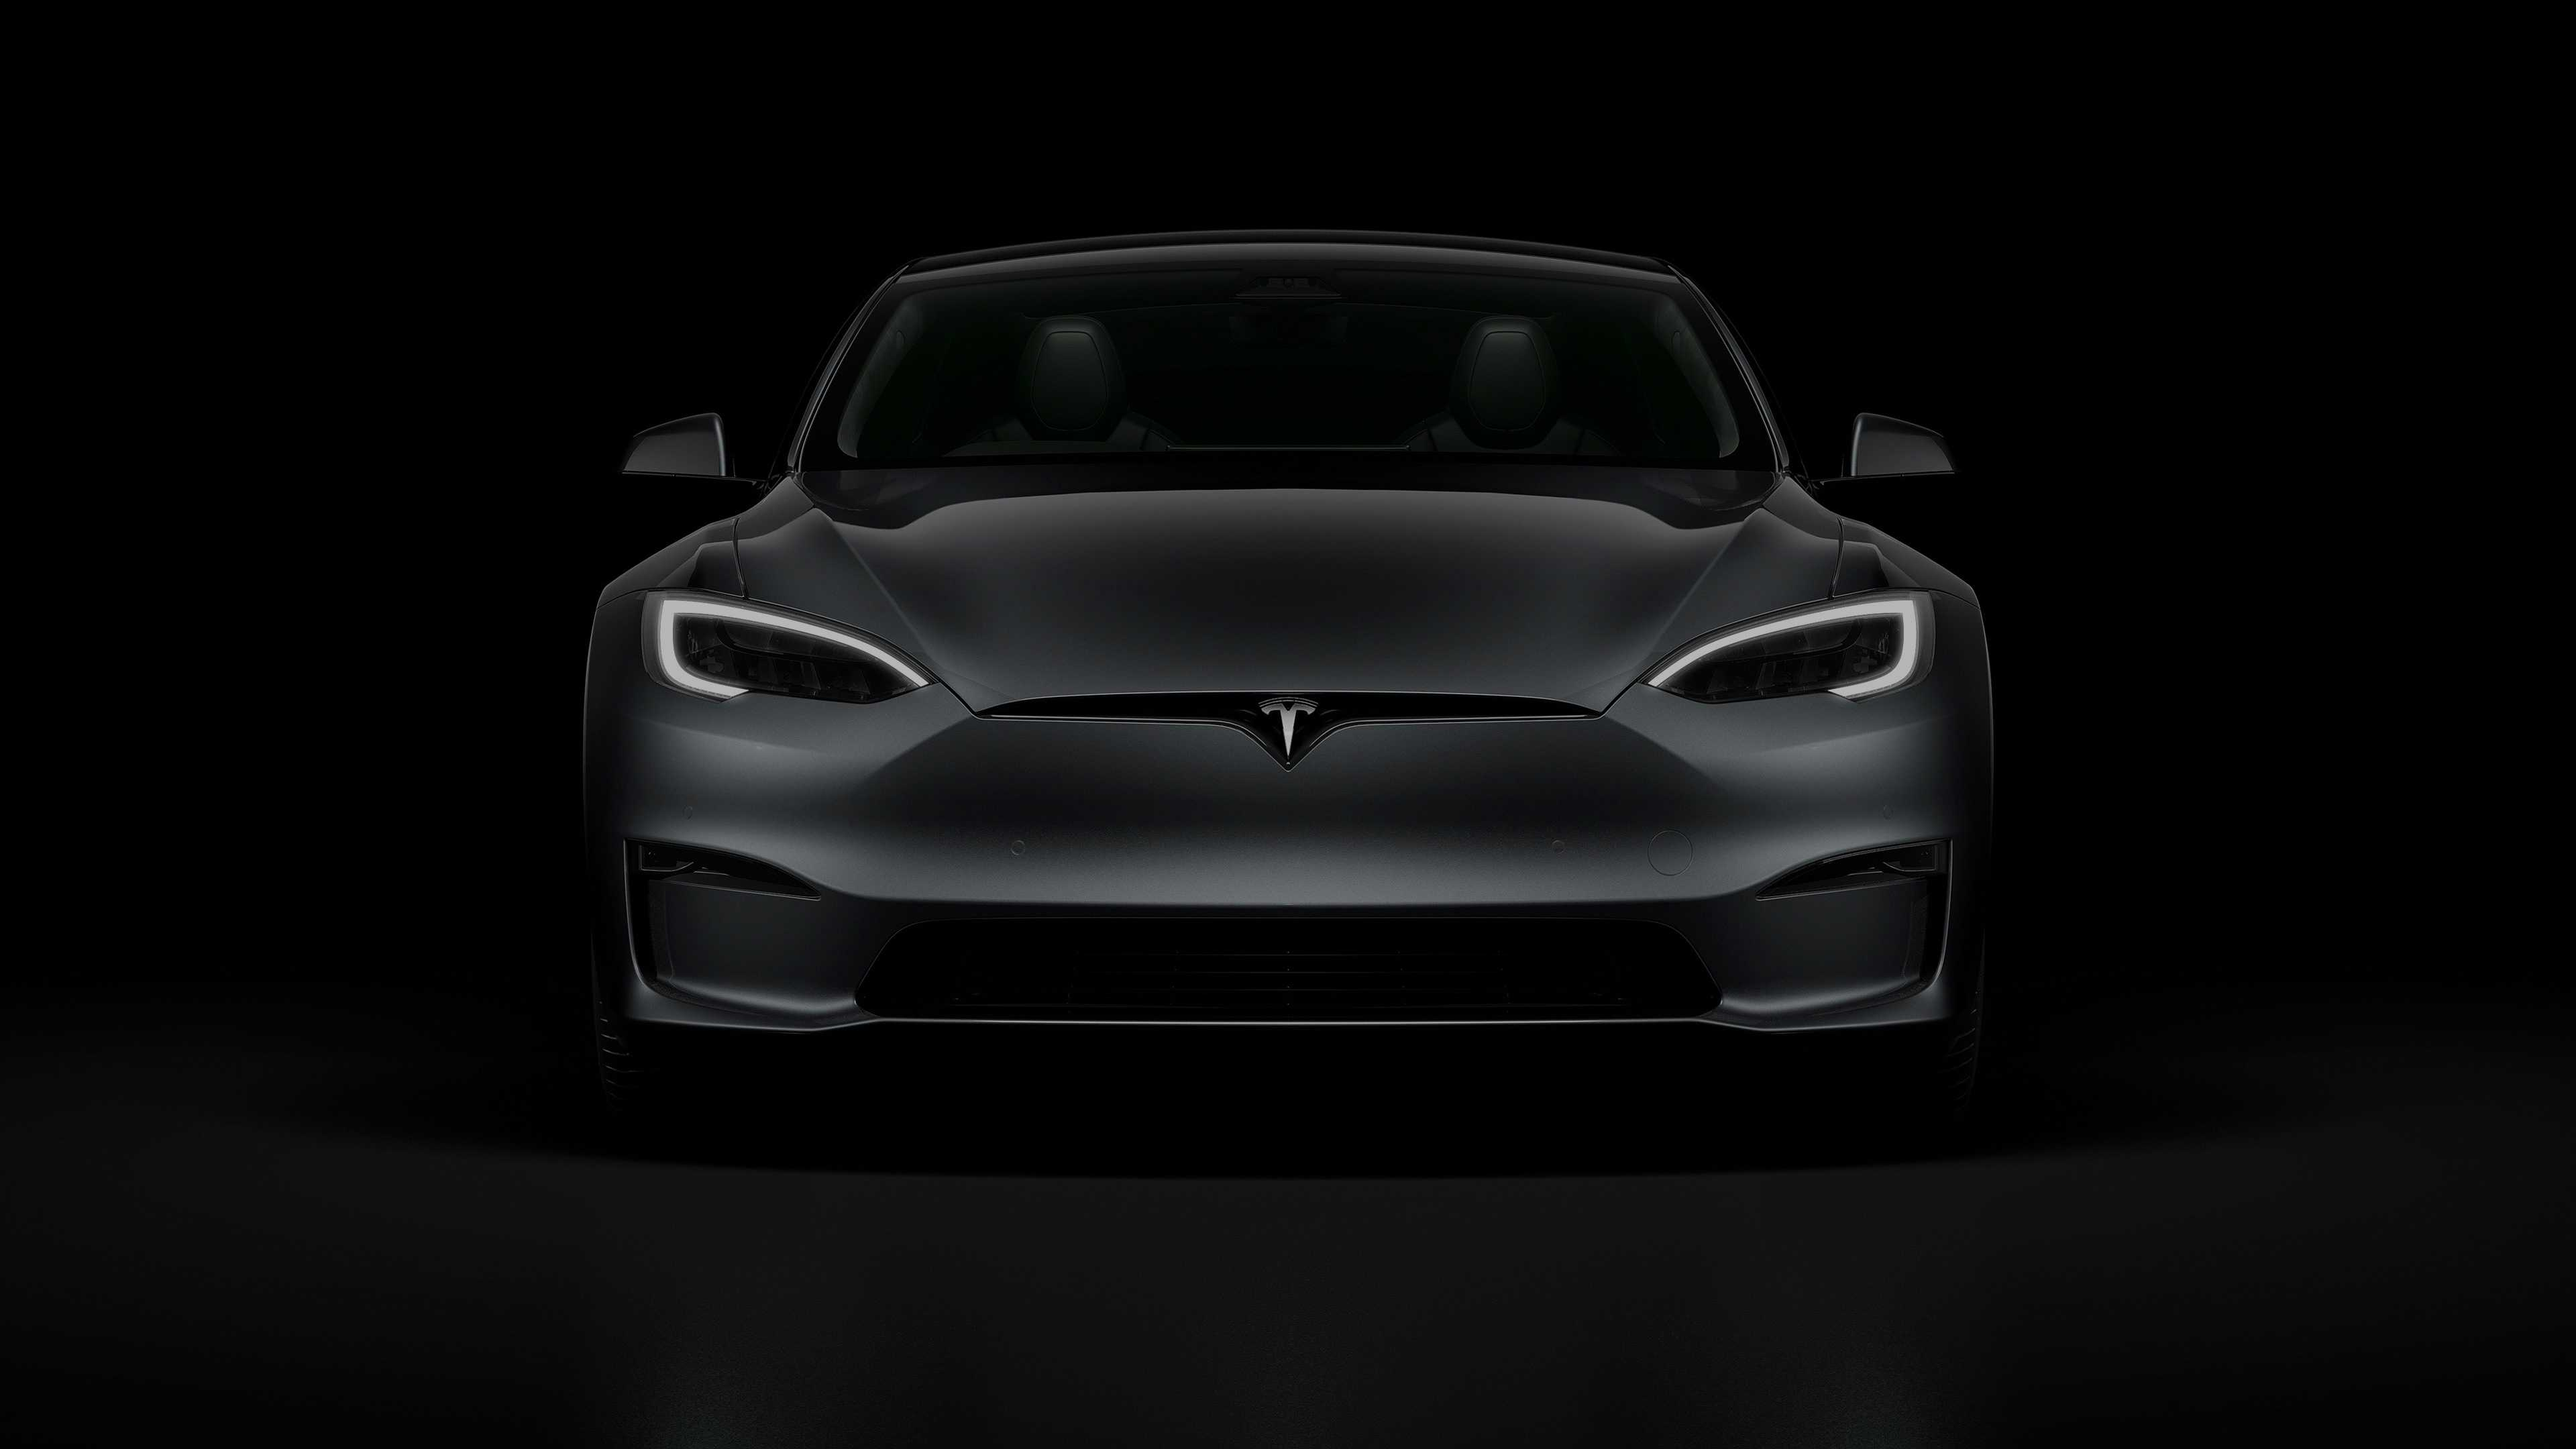
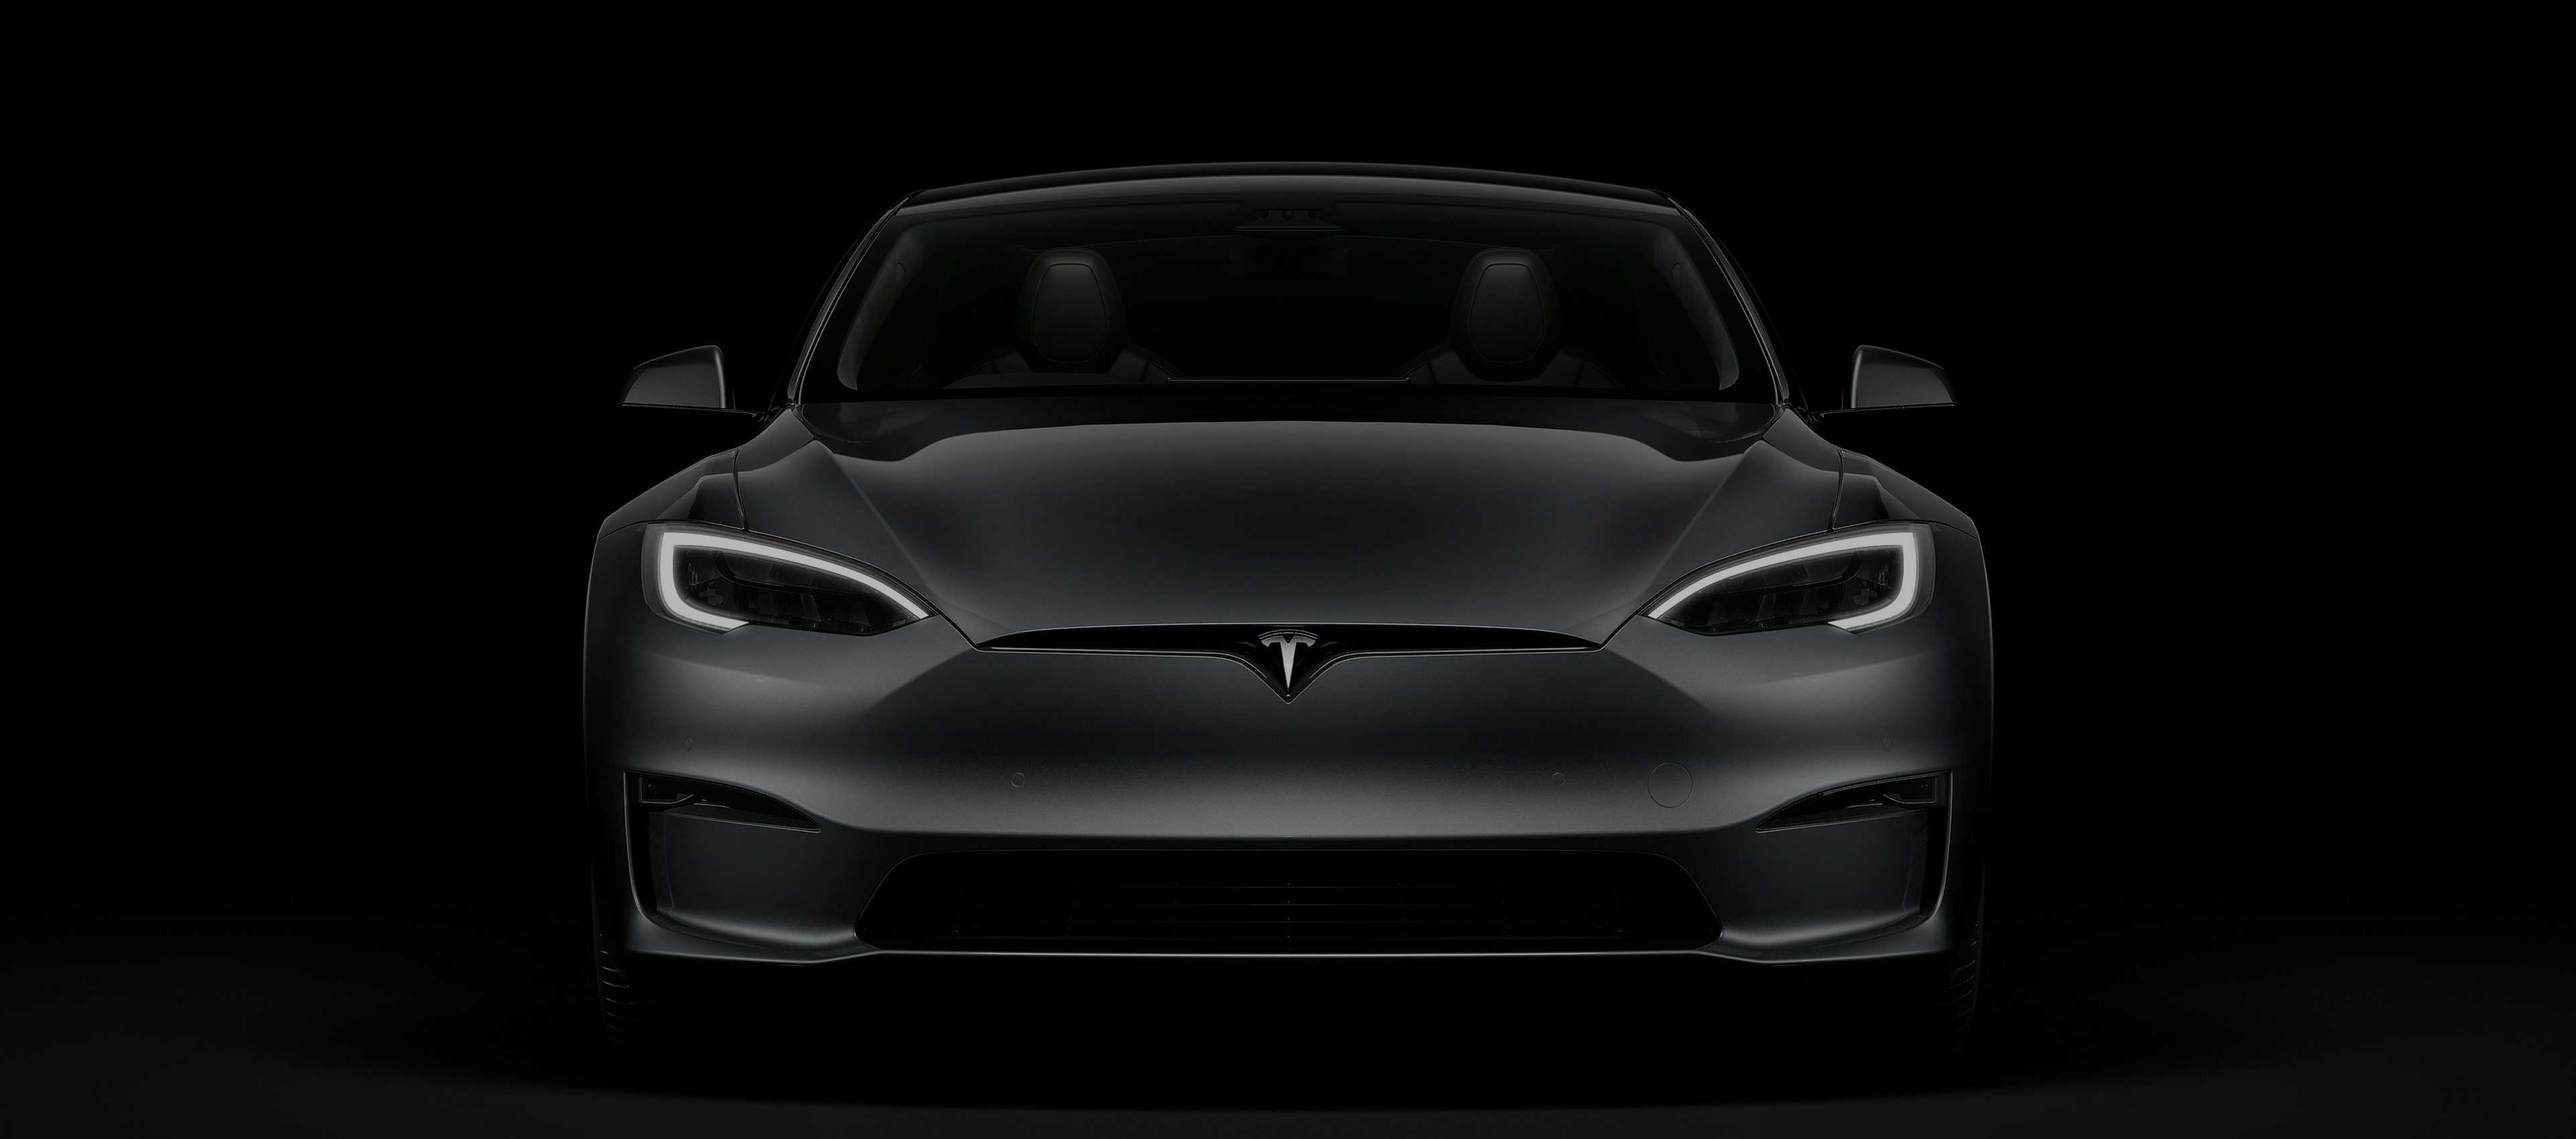
skoro final

Changed region(s): [[0.2188, 0.2185, 0.7812, 0.8428], [0.3438, 0.1249, 0.6562, 0.2185]]

diff --git a/index.html b/index.html
@@ -29,17 +29,31 @@
       <a href="#historia">Historia</a>
       <a href="#autonomne_riadenie">Autonómne riadenie</a>
       <a href="#sucastnost">Súčastnosť</a>
+      <!--
       <a href="./film.html">Film</a>
       <a href="./our_mission.html">Our Mission</a>
-    </div>
-    <img src="./title_image.jpg" />
+    --></div>
+    <img class="title_image" src="./title_image.jpg" />
 
-    <!-- TODO Social media share buttons -->
     <!-- *Heading with Introduction-->
     <h1>Autonómne vozidlá</h1>
     <p class="autor_datum">napísal Matúš Lipničan - 16.4.2022</p>
 
-    <section class="uvod">
+    <a
+      href="https://twitter.com/share?url=<URL>&text=<TEXT>via=<USERNAME>"
+      class="share-btn twitter"
+      >Twitter</a
+    >
+    <a
+      href="https://www.facebook.com/sharer/sharer.php?u=<URL>"
+      class="share-btn facebook"
+      >Facebook</a
+    >
+    <a href="mailto:?subject=<SUBJECT>&body=<BODY>" class="share-btn email"
+      >Email</a
+    >
+
+    <section class="section">
       <p class="text" id="historia">
         Preteky veľkých spoločností a výskumných inštitúcií o komerčné autonómne
         vozidlá sú na dobrej ceste. Majú potenciál masívne zmeniť spôsob, akým
@@ -50,7 +64,7 @@
 
     <h1 class="historia">História</h1>
     <h2>15. storočie</h2>
-    <section class="uvod">
+    <section class="section">
       <p class="text">
         Vieme, čo si myslíte - autonómne autá v roku 1500? Áno, správne! Ale
         verte alebo nie, prvá myšlienka autonómneho auta bola v skutočnosti
@@ -62,9 +76,9 @@
         robot na svete.
       </p>
     </section>
-
+    <img src="./dkart.png" />
     <h2>20. storočie</h2>
-    <section class="uvod">
+    <section class="section">
       <p class="text">
         V roku 1925 vynálezca Francis Houdina predviedol rádiom riadené auto v
         uliciach Manhattanu bez toho, aby niekto sedel za volantom. Rádio
@@ -76,7 +90,8 @@
       </p>
     </section>
     <img src="./bhssmwpudgsibarx1sgj.webp" />
-    <section class="uvod">
+    <h2>Firebird II</h2>
+    <section class="section">
       <p class="text">
         Na svetovej výstave v roku 1939 vytvorila spoločnosť General Motors prvý
         model samojazdiaceho auta. Bolo to elektrické vozidlo riadené
@@ -88,7 +103,8 @@
       </p>
     </section>
     <img src="./firebird.jpg" />
-    <section class="uvod">
+    <h2>Standfordský vozík</h2>
+    <section class="section">
       <p class="text">
         Na vrchole vesmírnych pretekov v roku 1961 začali výskumníci uvažovať o
         tom, ako pristáť na Mesiaci. James Adams preto vytvoril Stanfordský
@@ -102,7 +118,8 @@
       </p>
     </section>
     <img src="./standfort_card.jpg" />
-    <section class="uvod">
+    <h2>NavLab 5</h2>
+    <section class="section">
       <p class="text">
         V roku 1990 začala univerzita Carnegie Mellon vytvárať samojazdiace
         autá, pričom do spracovania obrazu a riadenia integrovala neurónové
@@ -117,27 +134,38 @@
     <h1 class="autonomne_riadenie" id="autonomne_riadenie">
       Autonómne riadenie
     </h1>
-    <section>
-      <p>
+    <section class="section">
+      <p class="text">
         Samojazdiace autá využívajú na vnímanie okolia množstvo senzorov, ako sú
-        radar, lidar, sonar, GPS a odometria. <br />
-        Pokročilé riadiace systémy interpretujú senzorické informácie na
-        identifikáciu najrýchlejších a najefektívnejších navigačných ciest, ako
-        aj prekážok a relevantného značenia.
-      </p>
-
-      <p>
-        Autonómia vo vozidlách sa často rozdeľuje do šiestich úrovní podľa
-        systému, ktorý vyvinula Spoločnosť automobilových<br />
-        . inžinierov (SAE): úroveň 0 - žiadna automatizácia; úroveň 1 -
-        ovládanie rukami/zdieľané ovládanie; úroveň 2 - ovládanie rukami; úroveň
-        3 - vypnuté oči; úroveň 4 - vypnutá myseľ a úroveň 5 - plne samojazdiace
-        vozidlo. Inými slovami, volant je voliteľný.
+        radar, lidar, sonar, GPS a odometria. Pokročilé riadiace systémy
+        interpretujú senzorické informácie na identifikáciu najrýchlejších a
+        najefektívnejších navigačných ciest, ako aj prekážok a relevantného
+        značenia.
       </p>
     </section>
+    <section class="section">
+      <p class="text">
+        Autonómia vo vozidlách sa často rozdeľuje do šiestich úrovní podľa
+        systému, ktorý vyvinula Spoločnosť automobilových inžinierov (SAE):
+      </p>
+      <br />
+    </section>
+    <section class="uvod">
+      <ul>
+        <li>Úroveň 0 - žiadna automatizácia</li>
+        <li>Úroveň 1 - ovládanie rukami/zdieľané ovládanie</li>
+        <li>Úroveň 2 - ruky niesú na volante</li>
+        <li>Úroveň 3 - zatvorené oči</li>
+        <li>Úroveň 4 - vypnutá myseľ</li>
+        <li>
+          Úroveň 5 - plne samojazdiace vozidlo. Inými slovami, volant je
+          voliteľný.
+        </li>
+      </ul>
+    </section>
     <h1 class="sucastnost" id="sucastnost">Súčastnosť</h1>
-    <section>
-      <p>
+    <section class="section">
+      <p class="text">
         Začiatkom roku 2000 sa priemysel autonómnych vozidiel rozbehol naplno.
         Výskumná jednotka amerického ministerstva obrany DARPA sponzorovala
         sériu výziev na urýchlenie vývoja autonómnych vozidiel. V roku 2004
@@ -153,7 +181,9 @@
         pokusov o samojazdiace vozidlá ustupuje v dôsledku bezpečnosti, súdnych
         sporov a straty peňazí.
       </p>
-      <p>
+    </section>
+    <section class="section">
+      <p class="text">
         Od roku 2021 je najbližšie k uvedeniu autonómnych vozidiel na trh
         spoločnosť Tesla so svojím balíkom Full Self-Driving, ktorý umožňuje
         autonómne hands-free ovládanie pri jazde po diaľnici a rýchlostnej
@@ -169,6 +199,11 @@
         autonómne vozidlá
       </p>
     </section>
+    <iframe
+      width="834"
+      height="469"
+      src="https://www.youtube.com/watch?v=tlThdr3O5Qo"
+    ></iframe>
   </body>
   <!-- Footer: Creator/All rights reserved -->
   <footer>

diff --git a/style.css b/style.css
@@ -14,25 +14,46 @@ body {
 
 footer {
   color: white;
-  line-height: 0.9;
   position: absolute;
   background-color: #57bc90;
   width: 100%;
   border-bottom: 1rem solid #489c78;
 }
-/* TODO Make the tesla imagi crop on height */
+
 img {
-  width: 100%;
+  width: 50%;
   height: 90%;
-  border-bottom: 10px solid #3a956e;
-  border-top: 10px solid #489c78;
 }
 
 p {
+  margin: auto;
   font-size: 18px;
-  overflow-wrap: break-word;
+  text-align: justify;
+}
+h2 {
+  margin-top: 40px;
+  margin-bottom: 0;
+}
+.uvod {
+  display: flex;
+  align-items: flex-start;
+  justify-content: center;
 }
 
+li {
+  text-align: left;
+  font-size: 18px;
+}
+footer p {
+  font-size: 15px;
+  margin: 15px auto;
+  text-align: center;
+  line-height: 0.6;
+}
+.autor_datum {
+  text-align: center;
+  margin-bottom: 20px;
+}
 .menu {
   margin: 0 auto;
   display: flex;
@@ -54,6 +75,7 @@ p {
   text-align: center;
 }
 .menu p {
+  margin: 0;
   color: white;
   font-weight: bold;
   text-align: center;
@@ -71,16 +93,47 @@ p {
   border-right: 2px solid black;
 }
 
-.uvod {
-  display: flex;
-  align-items: flex-start;
-  justify-content: center;
+.title_image {
+  width: 100%;
+  height: 50%;
 }
 
 .text {
-  inline-size: 600px;
+  inline-size: 800px;
   left: 300px;
   right: 300px;
   overflow-wrap: break-word;
   padding: 15px 15px;
+  line-height: 1.7;
+}
+
+.share-btn {
+  display: inline-block;
+  color: #ffffff;
+  border: none;
+  padding: 0.1em 0.6em;
+  outline: none;
+  text-align: center;
+  font-size: 0.9em;
+  margin: 0 0.2em;
+}
+
+.share-btn:focus,
+.share-btn:hover {
+  text-decoration: none;
+  opacity: 0.8;
+}
+
+.share-btn:active {
+  color: #e2e2e2;
+}
+
+.share-btn.twitter {
+  background: #55acee;
+}
+.share-btn.facebook {
+  background: #3b5998;
+}
+.share-btn.email {
+  background: #444444;
 }
